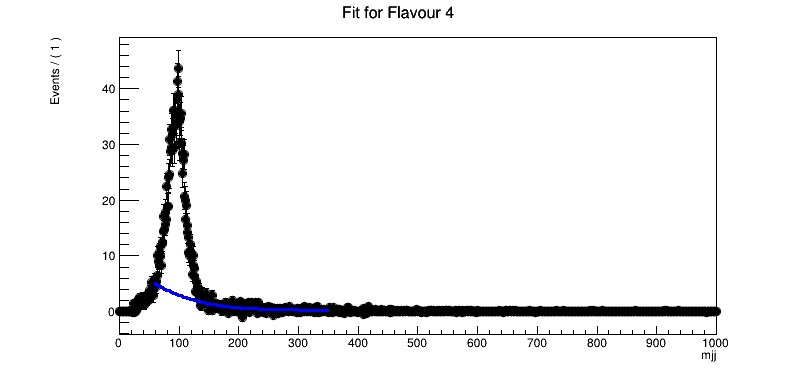
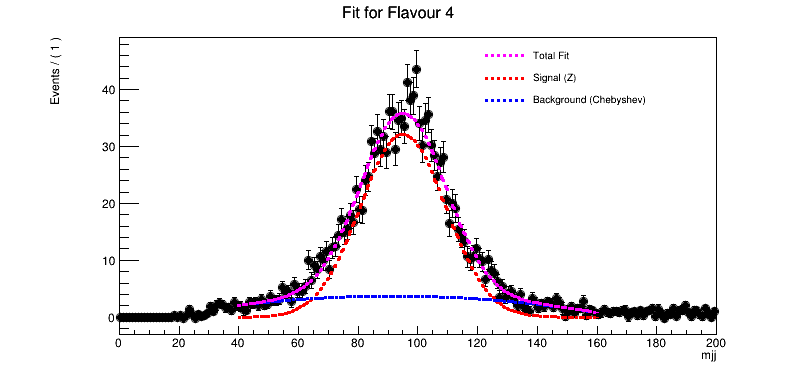
Fixed fitting issues

diff --git a/macros/fit/fitting.py b/macros/fit/fitting.py
@@ -20,35 +20,37 @@ with open(output_filename, 'w') as output_file:
 			exit()
 
 		# Define the variable
-		x = ROOT.RooRealVar("mjj", "mjj", 0, 1000)
-		x.setRange("fitRange", 60, 350)
+		x = ROOT.RooRealVar("mjj", "mjj", 0, 200)
+		x.setRange("fitRange", 40, 160)
 		#dh = ROOT.RooDataHist("dh", "dh", [x], Import=hh)
 
 		# Define the signal (gaussian)
-		mean = ROOT.RooRealVar("mean", "mean", 91.2, 85, 110)
+		mean = ROOT.RooRealVar("mean", "mean", 90, 85, 110)
 		sigma = ROOT.RooRealVar("sigma", "sigma", 10, 5, 25) 
 		gx = ROOT.RooGaussian("gauss", "gauss", x, mean, sigma)
 
 
 		# Define the background (Chebyshev polynomial)
-		a = 4
+		
+		a = 10000
 		a0 = ROOT.RooRealVar("a0", "a0", 0, -a, a)
 		a1 = ROOT.RooRealVar("a1", "a1", 0, -a, a)
-		a2 = ROOT.RooRealVar("a2", "a2", 0, -a, a)
-		a3 = ROOT.RooRealVar("a3", "a3", 0, -a, a)
-		px = ROOT.RooChebychev("px", "px", x, ROOT.RooArgList(a0, a1, a2, a3))
-
+		#a2 = ROOT.RooRealVar("a2", "a2", 0, -a, a)
+		#a3 = ROOT.RooRealVar("a3", "a3", 0, -a, a)
+		#px = ROOT.RooChebychev("px", "px", x, ROOT.RooArgList(a0, a1, a2, a3))
+		px = ROOT.RooChebychev("px", "px", x, ROOT.RooArgList(a0, a1))
+		
 		# Just trying another background (exponential)
 
-		#p0 = ROOT.RooRealVar('p0', 'p0', -0.01, -1, 0)
-		#p2 = ROOT.RooExponential('p2', 'p2', x, p0)
-
-
+		p0 = ROOT.RooRealVar('p0', 'p0', -0.01, -1, 0)
+		p2 = ROOT.RooExponential('p2', 'p2', x, p0)
+		
 		# Construct composite model : signal + background 
 		f = ROOT.RooRealVar("f", "f", 0.5, 0.0, 1.0)
 		model = ROOT.RooAddPdf("model", "model", ROOT.RooArgList(gx, px), ROOT.RooArgList(f))
 		#model = ROOT.RooAddPdf('model', 'model', ROOT.RooArgList(gx, p2), ROOT.RooArgList(f))
-
+		#model = ROOT.RooAddPdf("model", "model", ROOT.RooArgList(gx, bkg), ROOT.RooArgList(f))
+		
 		# Convert histogram to RooDataHist
 		dh = ROOT.RooDataHist(f"dh_{flavour}", f"dataset from histogram {hist_name}", ROOT.RooArgList(x), hh)
 
@@ -58,13 +60,16 @@ with open(output_filename, 'w') as output_file:
 		#hh.Scale(1/hh.Integral()) # To normalize the data
 		fitResult = model.fitTo(dh, ROOT.RooFit.Range('fitRange'), PrintLevel=-1, Save=True)
 		fitResult.Print()
-
+		
 		# Plot model on data
 
 		frame = x.frame(Title=f"Fit for Flavour {flavour}")
 		dh.plotOn(frame)
-		model.plotOn(frame, Components='gx', LineStyle=2, LineColor=ROOT.kRed)
-		model.plotOn(frame, Components="px", LineStyle=2, LineColor=ROOT.kBlue)
+		model.plotOn(frame, Components="gauss", LineStyle=2, LineColor=ROOT.kRed, Name='Signal')
+		model.plotOn(frame, Components="px", LineStyle=2, LineColor=ROOT.kBlue, Name='Background')
+		model.plotOn(frame,LineStyle=2,LineColor=ROOT.kMagenta, Name='TotalFit')
+
+		chi2 = frame.chiSquare()
 
 		# Add legend
 		leg = ROOT.TLegend(0.6, 0.7, 0.88, 0.88)
@@ -72,15 +77,17 @@ with open(output_filename, 'w') as output_file:
 		leg.SetTextSize(0.03)  # Edits text length
 		leg.SetFillStyle(0)  # Transparent background
 
-		leg.AddEntry(frame.findObject("mij"), "Total Fit", "l")
-		leg.AddEntry(frame.findObject("gx_Norm[mjj]"), "Signal (Z)", "l")
-		leg.AddEntry(frame.findObject("px_Norm[mjj]"), "Bruit de fond (Chebyshev)", "l")
+		leg.AddEntry(frame.findObject("TotalFit"), "Total Fit", "l")
+		leg.AddEntry(frame.findObject("Signal"), "Signal (Z)", "l")
+		leg.AddEntry(frame.findObject("Background"), "Background (Chebyshev)", "l")
+		#leg.AddEntry('', f'Chi^{{2}}/ndof = {chi2:.2f}','')
 
 		c = ROOT.TCanvas(f"c_{flavour}", f"Fit for Flavour {flavour}", 800, 400)
 		ROOT.gPad.SetLeftMargin(0.15)
 		frame.GetYaxis().SetTitleOffset(1.4)
 		frame.GetYaxis().SetTitleOffset(1.4)
 		frame.Draw()
+		leg.Draw()
 		c.SaveAs(f"fit_{flavour}.png")
 
 		resid = frame.pullHist()  # Get pull histogram
@@ -91,15 +98,14 @@ with open(output_filename, 'w') as output_file:
 		pull_frame.Draw()
 		c2.SaveAs(f"pull_distribution_flavour{flavour}.png")
 
-		chi2 = frame.chiSquare()
 		
 		# Save fit results in the text file
 		output_file.write(f"\nFlavour {flavour} Results:\n")
 		output_file.write(f"Chi-Squared/Ndof: {chi2:.3f}\n")
 		output_file.write(f"a0 = {a0.getVal():.3f} ± {a0.getError():.3f}\n")
 		output_file.write(f"a1 = {a1.getVal():.3f} ± {a1.getError():.3f}\n")
-		output_file.write(f"a2 = {a2.getVal():.3f} ± {a2.getError():.3f}\n")
-		output_file.write(f"a3 = {a3.getVal():.3f} ± {a3.getError():.3f}\n")
+		#output_file.write(f"a2 = {a2.getVal():.3f} ± {a2.getError():.3f}\n")
+		#output_file.write(f"a3 = {a3.getVal():.3f} ± {a3.getError():.3f}\n")
 		output_file.write(f"f  = {f.getVal():.3f} ± {f.getError():.3f}\n")
 		output_file.write(f"mean = {mean.getVal():.3f} ± {mean.getError():.3f}\n")
 		output_file.write(f"sigma = {sigma.getVal():.3f} ± {sigma.getError():.3f}\n")
